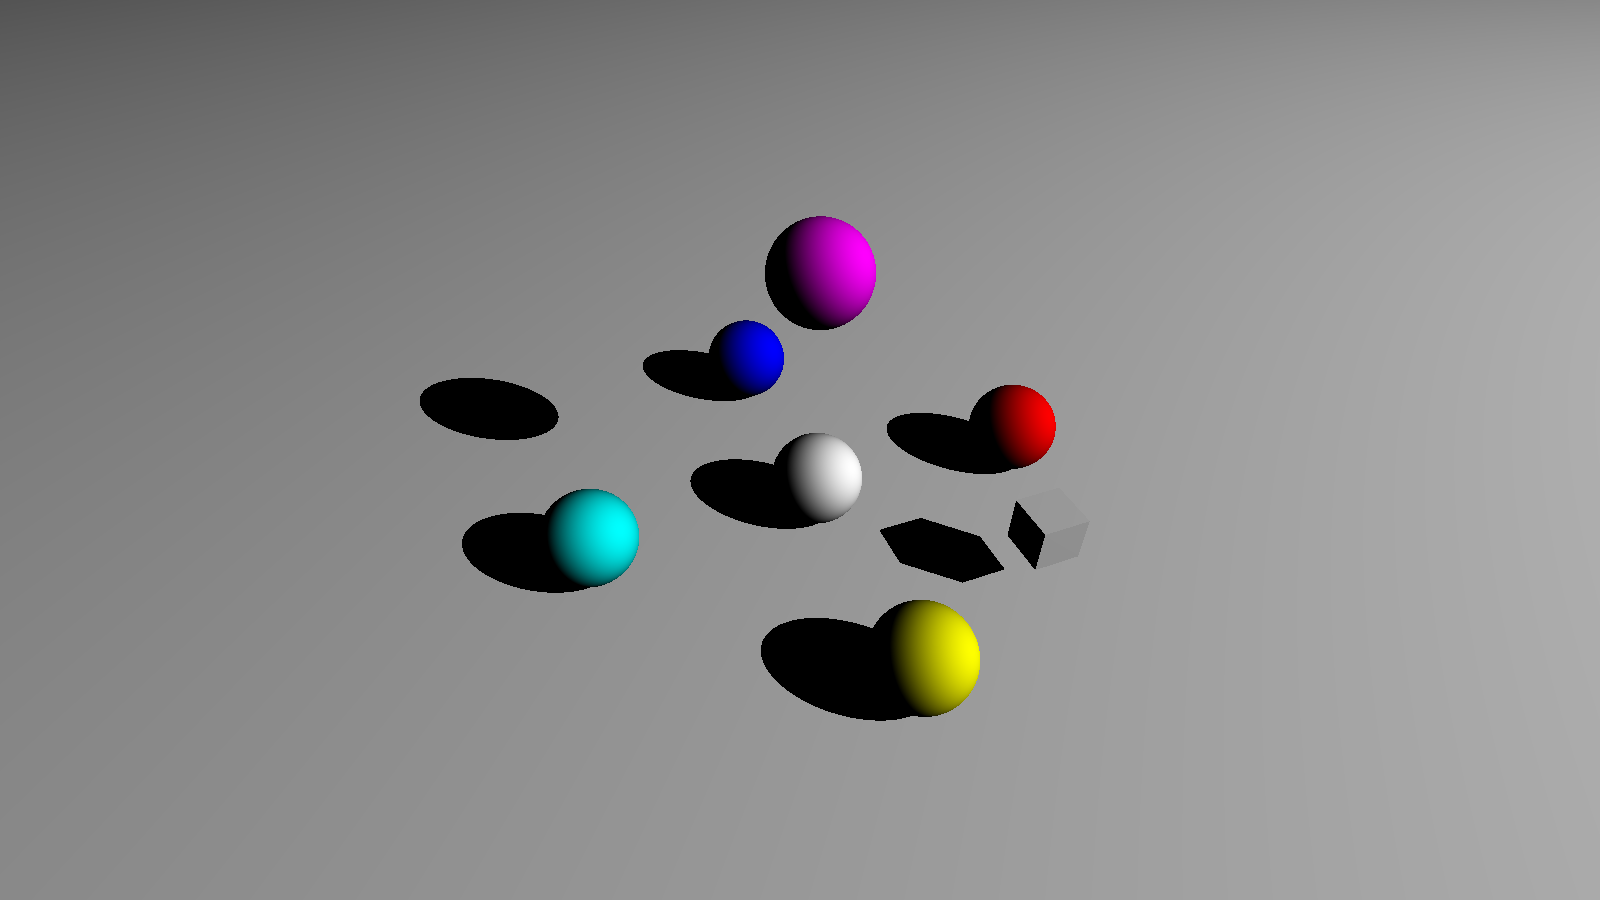
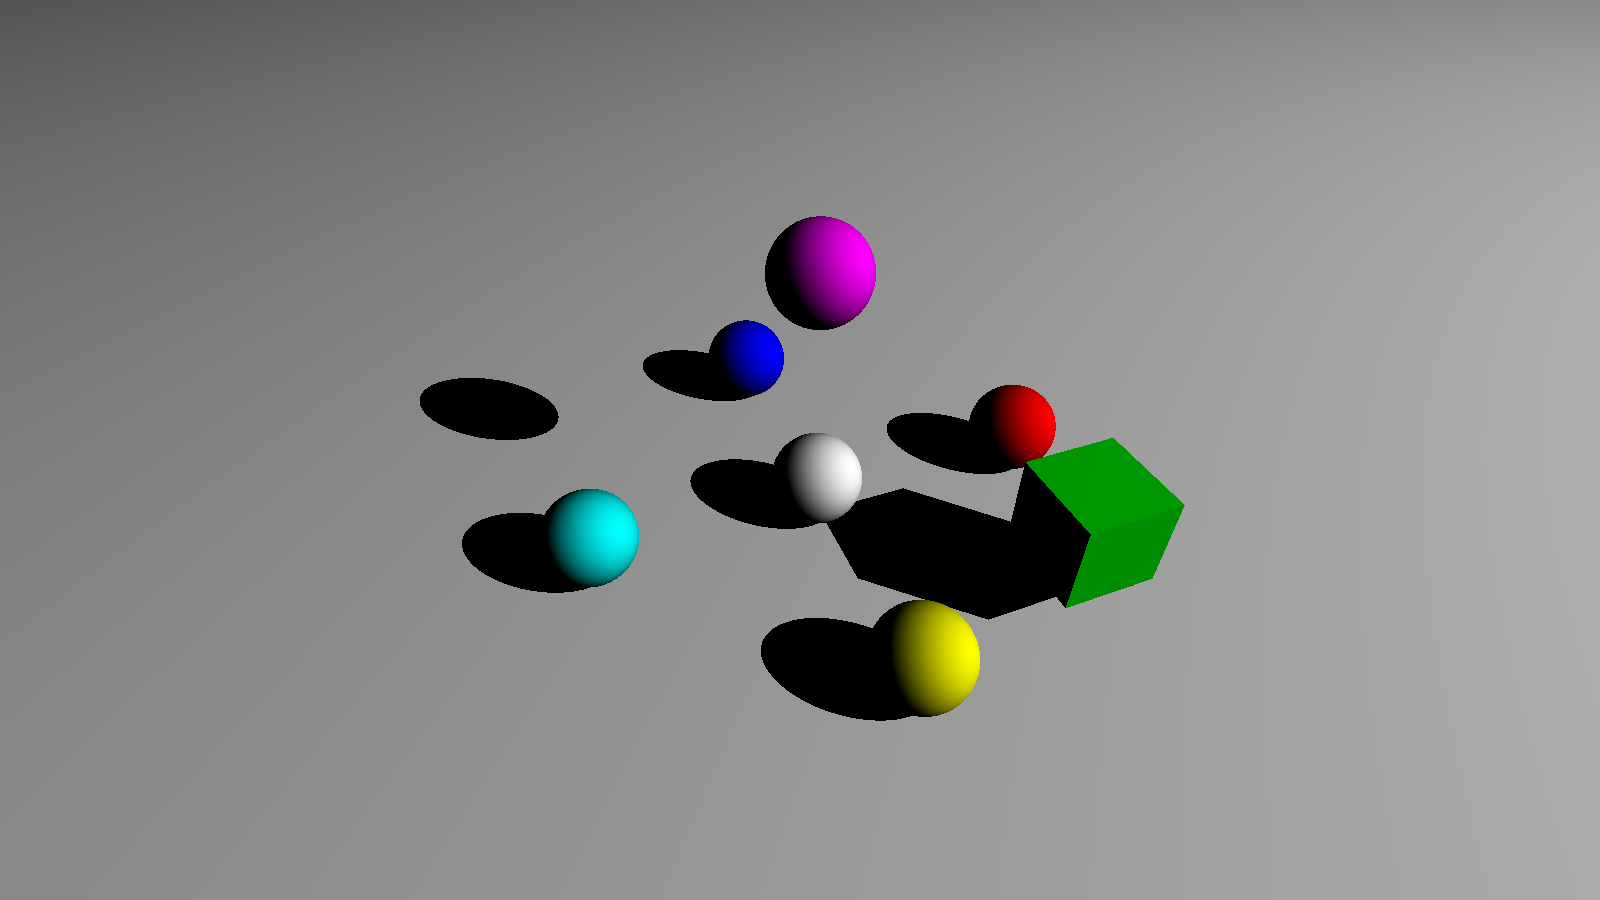
clippy

Changed region(s): [[0.5, 0.4667, 0.75, 0.6844]]

diff --git a/src/main.rs b/src/main.rs
@@ -9,8 +9,8 @@ fn main() {
     let mut image = Image::blank(1600, 900);
 
     let camera: Camera = Camera::new(
-        &Vec3::new(-5, -12, -12),
-        &Vec3::K,
+        Vec3::new(-5, -12, -12),
+        Vec3::K,
         4.0, 9.0 / 4.0
     );
     
@@ -30,7 +30,7 @@ fn main() {
     scene.shapes.push(Box::new(Plane::new(Vec3::O + Vec3::J, Vec3::J.invert(), Color::white())));
 
     // TODO Prism not currently working
-    scene.shapes.push(Box::new(Prism::new(Vec3::new(3, 0, -3), Vec3::new(4, -1, -4), Color::white())));
+    scene.shapes.push(Box::new(Prism::new(Vec3::new(3, 0, -3), Vec3::new(5, -2, -5), Color::green())));
 
     scene.lights.push(Light::new(Vec3::new(5, -5, -5) * 10, Color::hex("#FFFFFF").unwrap()));
     // scene.lights.push(Light::new(Vec3::new(0, 0, -10), Color::hex("#FF0000").unwrap()));

diff --git a/src/structs/camera.rs b/src/structs/camera.rs
@@ -14,15 +14,15 @@ pub struct Camera {
 }
 
 impl Camera {
-    pub fn new<T>(location: &Vec3, look_at: &Vec3, width: T, height: T) -> Self 
+    pub fn new<T>(location: Vec3, look_at: Vec3, width: T, height: T) -> Self 
         where T: Into<f64> + Copy {
-        let direction = Vec3::between(location, look_at).unit();
+        let direction = Vec3::between(&location, &look_at).unit();
         let camera_right = Vec3::J.cross(&direction).unit() * (width.into() / 2.0);
         let camera_up = camera_right.cross(&direction).unit().invert() * (-height.into() / 2.0);
         
         Camera {
-            location: location.clone(),
-            look_at: look_at.clone(),
+            location,
+            look_at,
             direction,
             camera_right,
             camera_up

diff --git a/src/structs/plane.rs b/src/structs/plane.rs
@@ -1,5 +1,5 @@
-use raster::{Color, Image};
-use super::{vec3::Vec3, shape::Shape, ray::Ray, scene::Scene, color::color_add};
+use raster::Color;
+use super::{vec3::Vec3, shape::Shape, ray::Ray};
 
 pub struct Plane {
     pub point:Vec3,
@@ -14,7 +14,7 @@ impl Shape for Plane {
         if angle.abs() < f64::EPSILON {
             vec![]
         } else {
-            return vec![(self.point - ray.origin).dot(&self.normal) / angle]
+            vec![(self.point - ray.origin).dot(&self.normal) / angle]
         }
     }
 

diff --git a/src/structs/prism.rs b/src/structs/prism.rs
@@ -1,5 +1,3 @@
-use std::cmp::min;
-
 use raster::Color;
 
 use super::{vec3::Vec3, shape::Shape, util::{fmin, fmax}, ray::Ray};
@@ -18,7 +16,7 @@ impl Shape for Prism {
             res.append(self.intersect_on_axis(&axis, ray).as_mut());
         }
 
-        return res;
+        res
     }
 
     fn color(&self) -> Color {
@@ -66,7 +64,7 @@ impl Prism {
             }
         }
 
-        return intersections;
+        intersections
     }
 
     pub fn contains(&self, point: &Vec3, axis: &Vec3) -> bool {

diff --git a/src/structs/ray.rs b/src/structs/ray.rs
@@ -19,7 +19,7 @@ impl Ray {
     }
 
     pub fn trace(&self, scene: &Scene) -> Color { 
-        let objects_and_distances: Vec<(&Box<dyn Shape>, f64)> = scene.shapes.iter().map(|s: &Box<dyn Shape>| (s, s.closest_distance_along_ray(&self))).collect();
+        let objects_and_distances: Vec<(&Box<dyn Shape>, f64)> = scene.shapes.iter().map(|s: &Box<dyn Shape>| (s, s.closest_distance_along_ray(self))).collect();
 
         if objects_and_distances.is_empty() {
             println!("No objects in scene");

diff --git a/src/structs/shape.rs b/src/structs/shape.rs
@@ -1,6 +1,6 @@
 use raster::{Color, Image};
 
-use super::{ray::Ray, vec3::Vec3, scene::Scene, color::color_add, light};
+use super::{ray::Ray, vec3::Vec3, scene::Scene, color::color_add};
 
 pub trait Shape {
     fn intersections(&self, _ray: &Ray) -> Vec<f64> {
@@ -51,7 +51,7 @@ pub trait Shape {
             color = color_add(&color, &illumination);
         }
 
-        return color;
+        color
     }
 
     fn casts_shadow(&self, point: &Vec3, light_vector: Vec3) -> bool {

diff --git a/src/structs/scene.rs b/src/structs/scene.rs
@@ -16,6 +16,6 @@ impl Scene<'_> {
     pub fn trace<T>(&self, x: T, y: T) -> Color 
         where T: Into<f64> + Copy 
     {
-        self.camera.trace(&self, x, y)
+        self.camera.trace(self, x, y)
     }
 }

diff --git a/src/structs/sphere.rs b/src/structs/sphere.rs
@@ -1,6 +1,6 @@
 use raster::Color;
 
-use super::{shape::Shape, vec3::Vec3, ray::Ray, scene::Scene, color::color_add};
+use super::{shape::Shape, vec3::Vec3, ray::Ray};
 
 pub struct Sphere { 
     pub center: Vec3,
